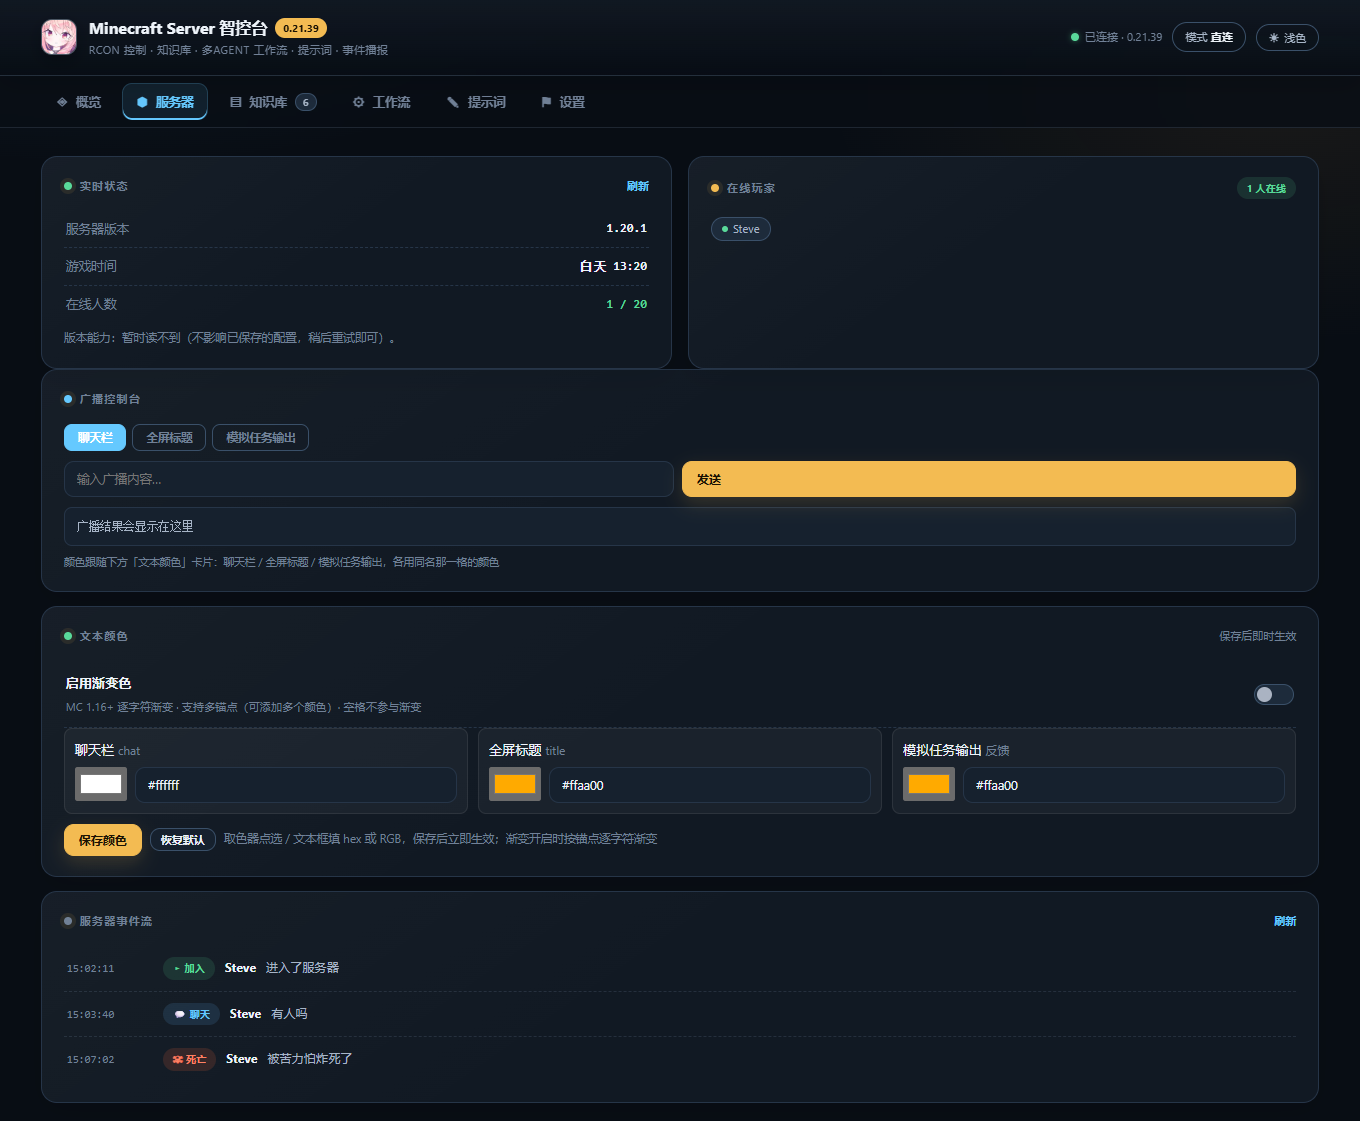
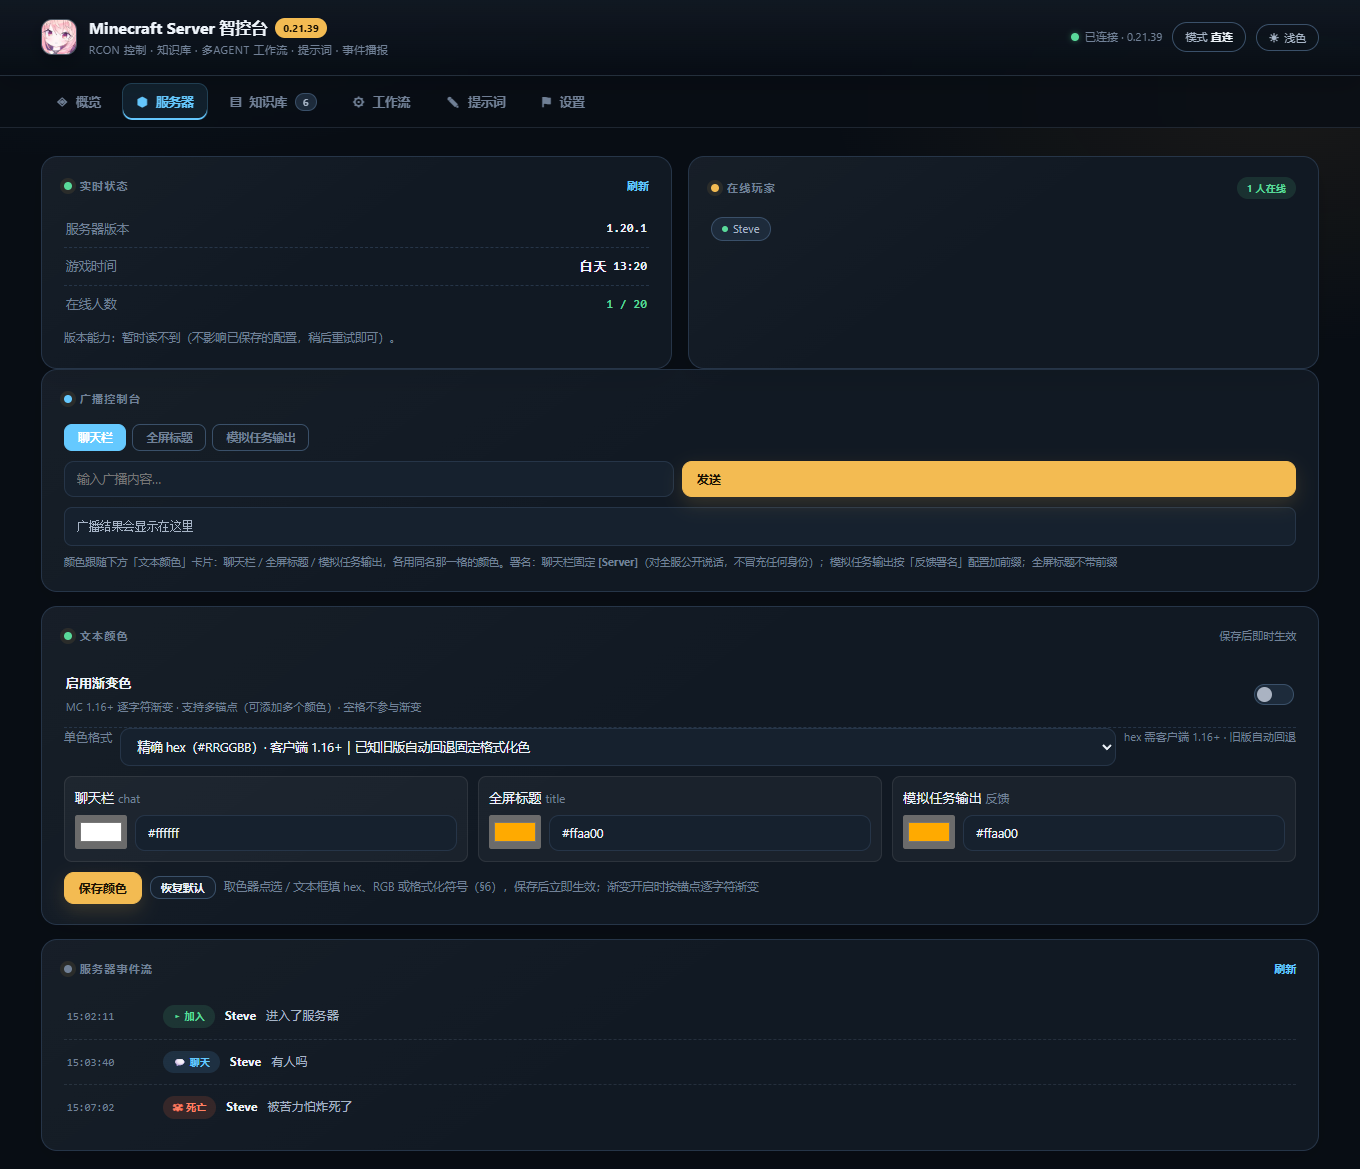
docs: 界面截图全量重生成（设置页「格式化符号」下拉 / 单色格式与色名框）+ 预览图换新缓存戳
- 重跑 tests/make_docs_images.py：docs/images/*.png 按当前 UI 全部重出，
  设置页分组图包含新的「单色格式」下拉与三项单色的 §0-§f 下拉。
- README 里 jsDelivr 预览图的缓存戳 20261005 → 20261005b —— 同一个 URL 换图会被
  CDN / camo 的旧图缓存挡住（v0.23.6 那次已经吃过一次）。

diff --git a/README.md b/README.md
@@ -29,9 +29,9 @@
 
 ## 界面预览
 
-[![概览页](https://cdn.jsdelivr.net/gh/HuangGuaKnn/astrbot_plugin_Scintilla_MC_Server_Control@main/docs/images/overview-dark.png?v=20261005)](https://github.com/HuangGuaKnn/astrbot_plugin_Scintilla_MC_Server_Control/blob/main/docs/gallery.md)
+[![概览页](https://cdn.jsdelivr.net/gh/HuangGuaKnn/astrbot_plugin_Scintilla_MC_Server_Control@main/docs/images/overview-dark.png?v=20261005b)](https://github.com/HuangGuaKnn/astrbot_plugin_Scintilla_MC_Server_Control/blob/main/docs/gallery.md)
 
-[![服务器页](https://cdn.jsdelivr.net/gh/HuangGuaKnn/astrbot_plugin_Scintilla_MC_Server_Control@main/docs/images/server-dark.png?v=20261005)](https://github.com/HuangGuaKnn/astrbot_plugin_Scintilla_MC_Server_Control/blob/main/docs/gallery.md)
+[![服务器页](https://cdn.jsdelivr.net/gh/HuangGuaKnn/astrbot_plugin_Scintilla_MC_Server_Control@main/docs/images/server-dark.png?v=20261005b)](https://github.com/HuangGuaKnn/astrbot_plugin_Scintilla_MC_Server_Control/blob/main/docs/gallery.md)
 
 > 更多界面（知识库 / 工作流 / 提示词 / 设置页十个分组）见 [界面效果](https://github.com/HuangGuaKnn/astrbot_plugin_Scintilla_MC_Server_Control/blob/main/docs/gallery.md)。
 
